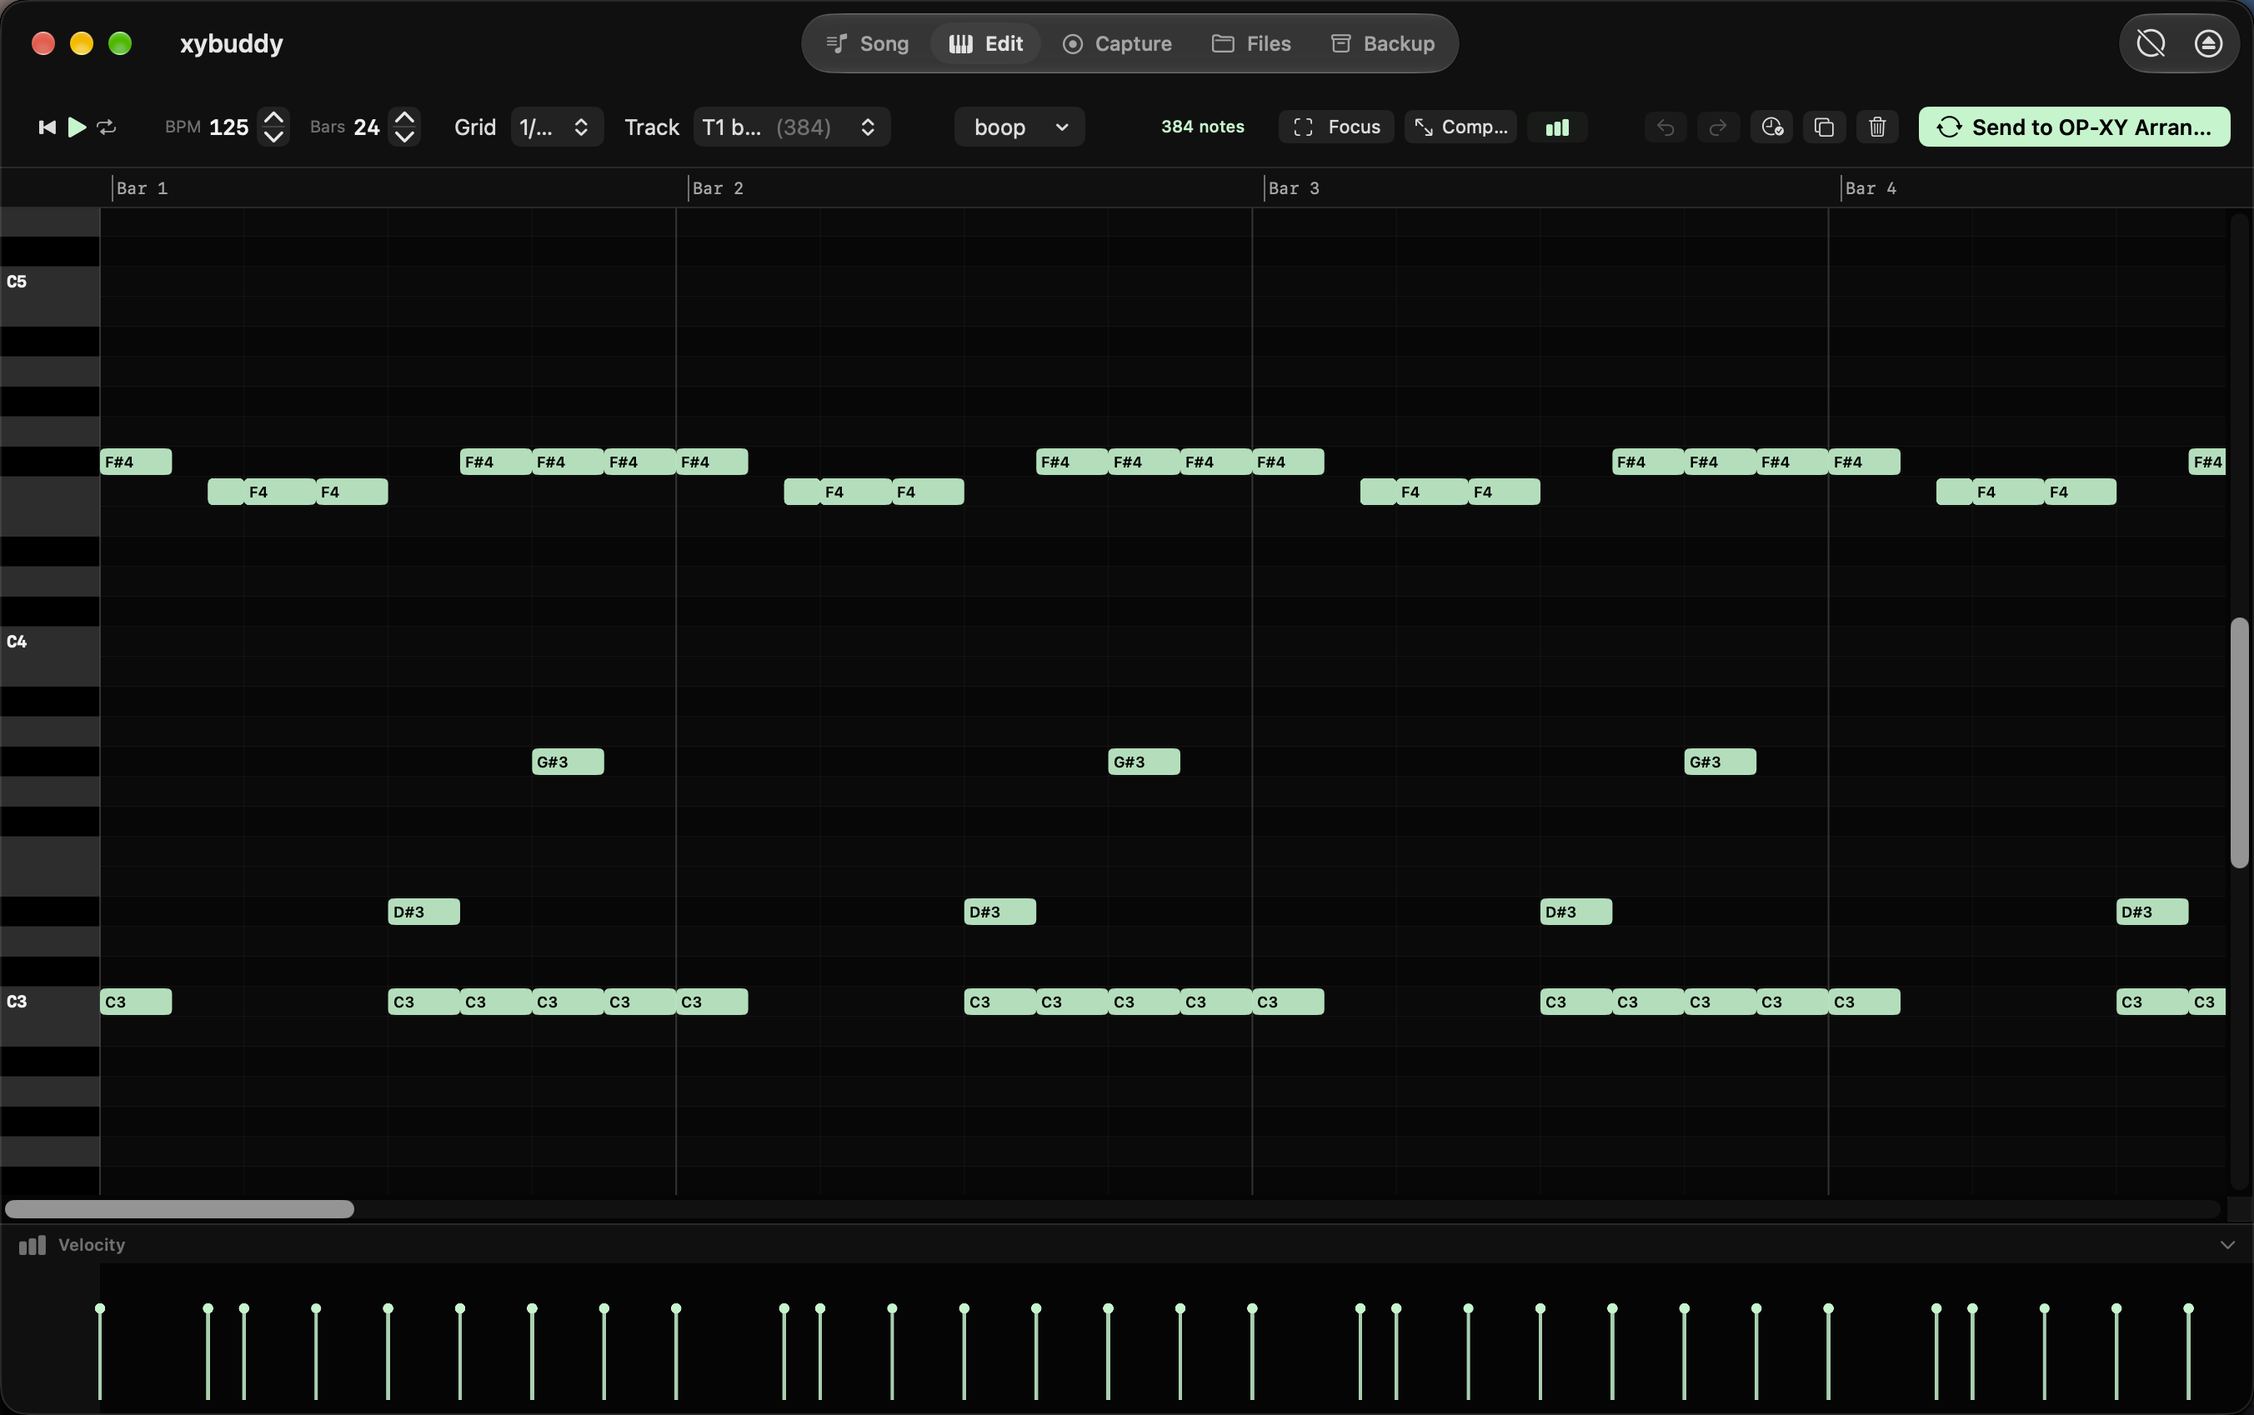
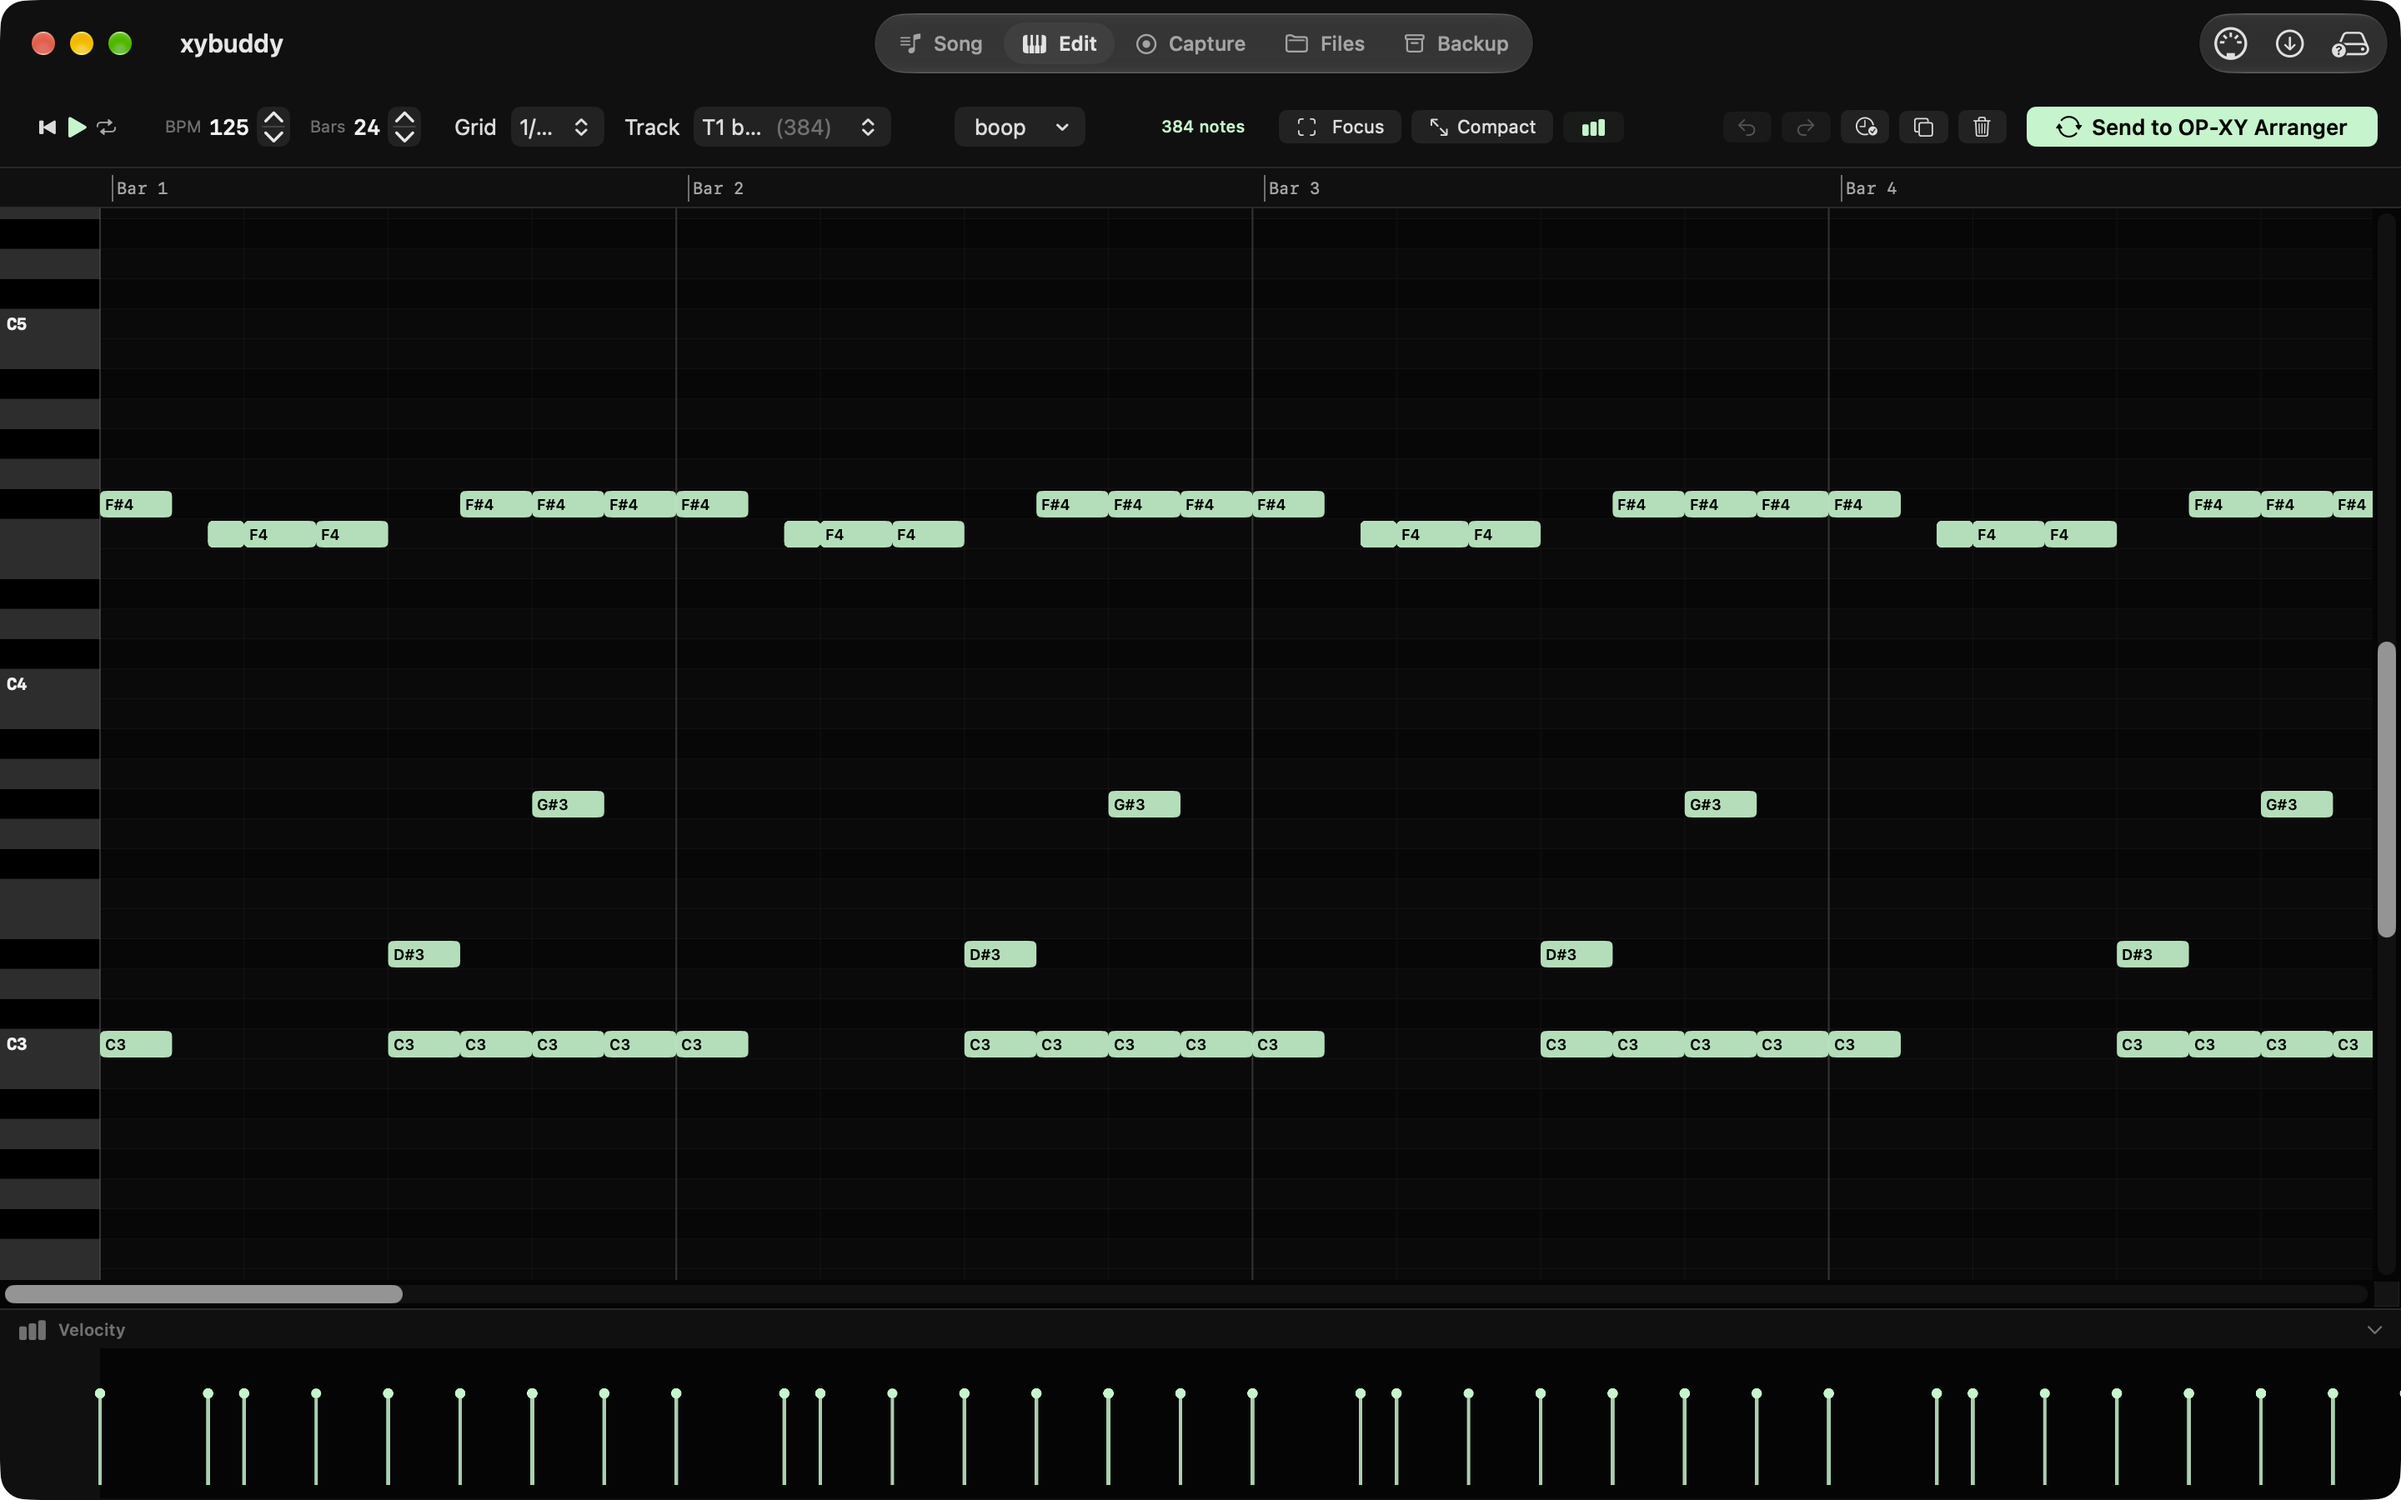
Update screenshots

diff --git a/web/public/docs/screenshots.js b/web/public/docs/screenshots.js
@@ -28,12 +28,6 @@ const galleries = {
       "macOS · USB MIDI connected",
     ],
     [
-      "Mac · Sample browser",
-      "mac-sample-browser",
-      "The sample drawer showing user samples from the connected OP–XY.",
-      "macOS · MTP connected",
-    ],
-    [
       "Mac · Import",
       "mac-song",
       "The Song import workspace and native room toolbar.",
@@ -181,8 +175,8 @@ for (const gallery of document.querySelectorAll("[data-screenshots]")) {
     picture.alt = description;
     const phone = file.startsWith("iphone-");
     const tablet = file.startsWith("ipad-");
-    picture.width = phone ? 1206 : tablet ? 2420 : 2704;
-    picture.height = phone ? 2622 : tablet ? 1668 : 1698;
+    picture.width = phone ? 1206 : tablet ? 2420 : 2880;
+    picture.height = phone ? 2622 : tablet ? 1668 : 1800;
     gallery.dataset.platform = phone ? "iphone" : tablet ? "ipad" : "mac";
     picture.src = link.href;
     caption.textContent = `${title} · ${source}`;

diff --git a/web/public/docs/index.html b/web/public/docs/index.html
@@ -85,8 +85,8 @@
               ><img
                 src="/docs/images/mac-song.png"
                 alt="The xybuddy macOS app with its Song workspace and native room toolbar"
-                width="2704"
-                height="1698"
+                width="2880"
+                height="1800"
                 fetchpriority="high"
             /></a>
             <figcaption>Song on macOS · actual app capture</figcaption>
@@ -219,8 +219,8 @@
             <li>Connect by USB and enable MTP mode.</li>
             <li>Open Files and choose an area or folder.</li>
             <li>
-              Open a project in Song, transfer files, or use the available
-              rename, folder and delete actions.
+              Open a project in Song, play a sample, transfer files, or use the
+              available rename, folder and delete actions.
             </li>
             <li>Wait for the current transfer to finish, then eject.</li>
           </ol>

diff --git a/web/public/docs/SCREENSHOTS.md b/web/public/docs/SCREENSHOTS.md
@@ -6,27 +6,30 @@ no generated or composited interfaces are used.
 
 ## Mac — connected OP–XY
 
-The native Debug app built earlier in this session was run with the user's
-USB-connected OP–XY, reporting firmware 1.2.0. Captures were cropped to the
-1352 × 849-point app window at 2× resolution.
+Captured on 28 October 2026 by `script/capture-mac-screenshots.sh` in the
+TEBuddy checkout, which drives a Debug build of the app through each view
+and captures its window without the shadow. Rerun it after UI changes; see
+the script's `--help`. The window is 1440 × 900 points, captured at 2× as
+2880 × 1800, which is also a Mac App Store screenshot size. The OP–XY was
+connected over USB on firmware 1.2.1.
 
-- `mac-song.png`: original import workspace, captured before connection.
-- `mac-arrange.png`, `mac-pattern.png`, `mac-song-mode.png`: the existing
-  `7nderground.xy` project opened read-only from the connected device into
-  Song. No edits were sent back to the instrument.
-- `mac-edit.png`: that arrangement opened in the native piano roll.
+- `mac-song.png`: the import workspace, before a project is opened.
 - `mac-files.png`, `mac-templates.png`, `mac-presets.png`, `mac-samples.png`:
   real MTP directory listings in all four Files areas.
 - `mac-backup.png`: MTP-connected device details, backup options and existing
-  snapshot history. No backup or restore was started for this capture.
-- `mac-sample-browser.png`: the Song sample drawer listing device samples.
-- `mac-live-remote.png`: OP–XY detected over USB MIDI after leaving MTP mode.
-  No transport or scene commands were triggered for the screenshot.
-- `mac-capture.png`: OP–XY USB audio selected, eight inputs and live meter
-  activity. No recording was started; this is input-meter evidence only.
+  snapshot history. No backup or restore was started.
+- `mac-arrange.png`, `mac-pattern.png`, `mac-song-mode.png`: `7nderground.xy`
+  opened read-only from the connected device into Song. No edits were sent
+  back to the instrument.
+- `mac-live-remote.png`: Live Remote with OP–XY over USB MIDI, after leaving
+  MTP mode. No transport or scene commands were sent.
+- `mac-edit.png`: that arrangement opened in the native piano roll.
+- `mac-capture.png`: OP–XY USB audio selected, eight inputs and live meters.
+  No recording was started.
 
-The file connection was ejected after capturing MTP views. The instrument
-was left in USB MIDI/audio mode. No files were uploaded, deleted or renamed.
+The script switches OP–XY into MTP mode for Files and Backup and ejects it
+back to USB MIDI/audio mode afterwards. No files were uploaded, deleted or
+renamed.
 
 ## iPhone and iPad — simulator
 
